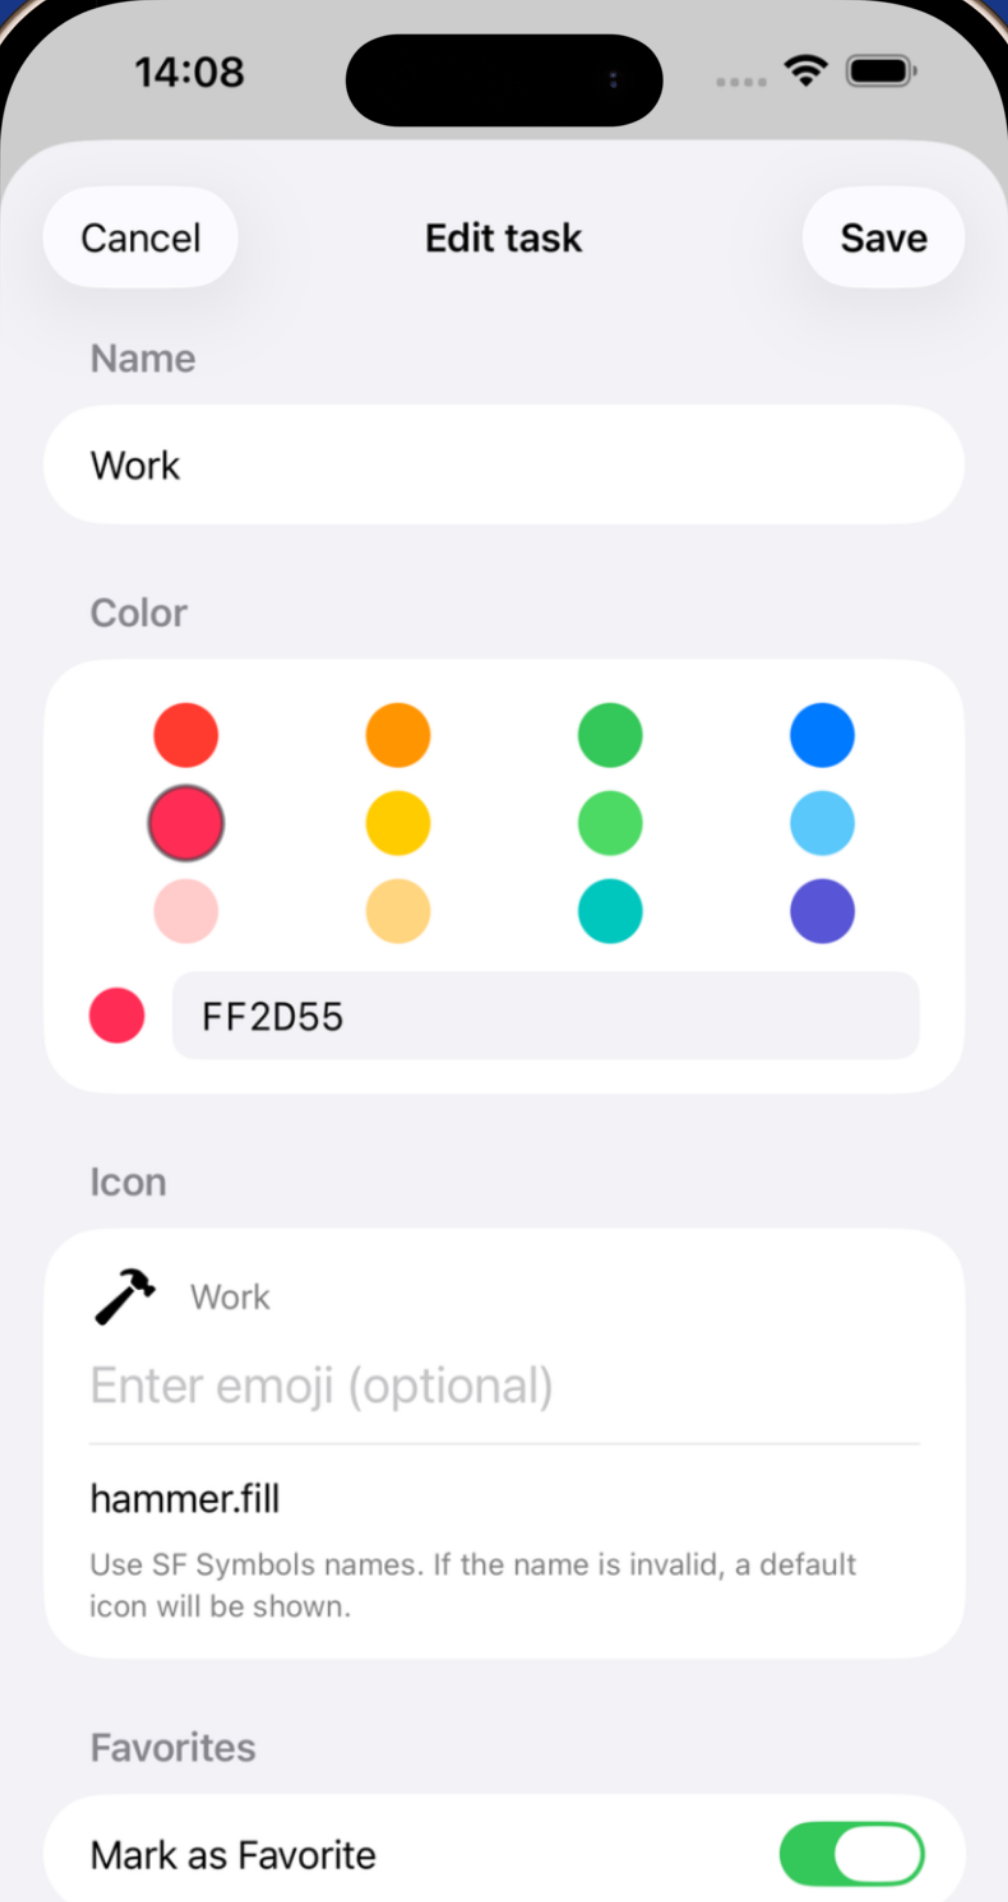
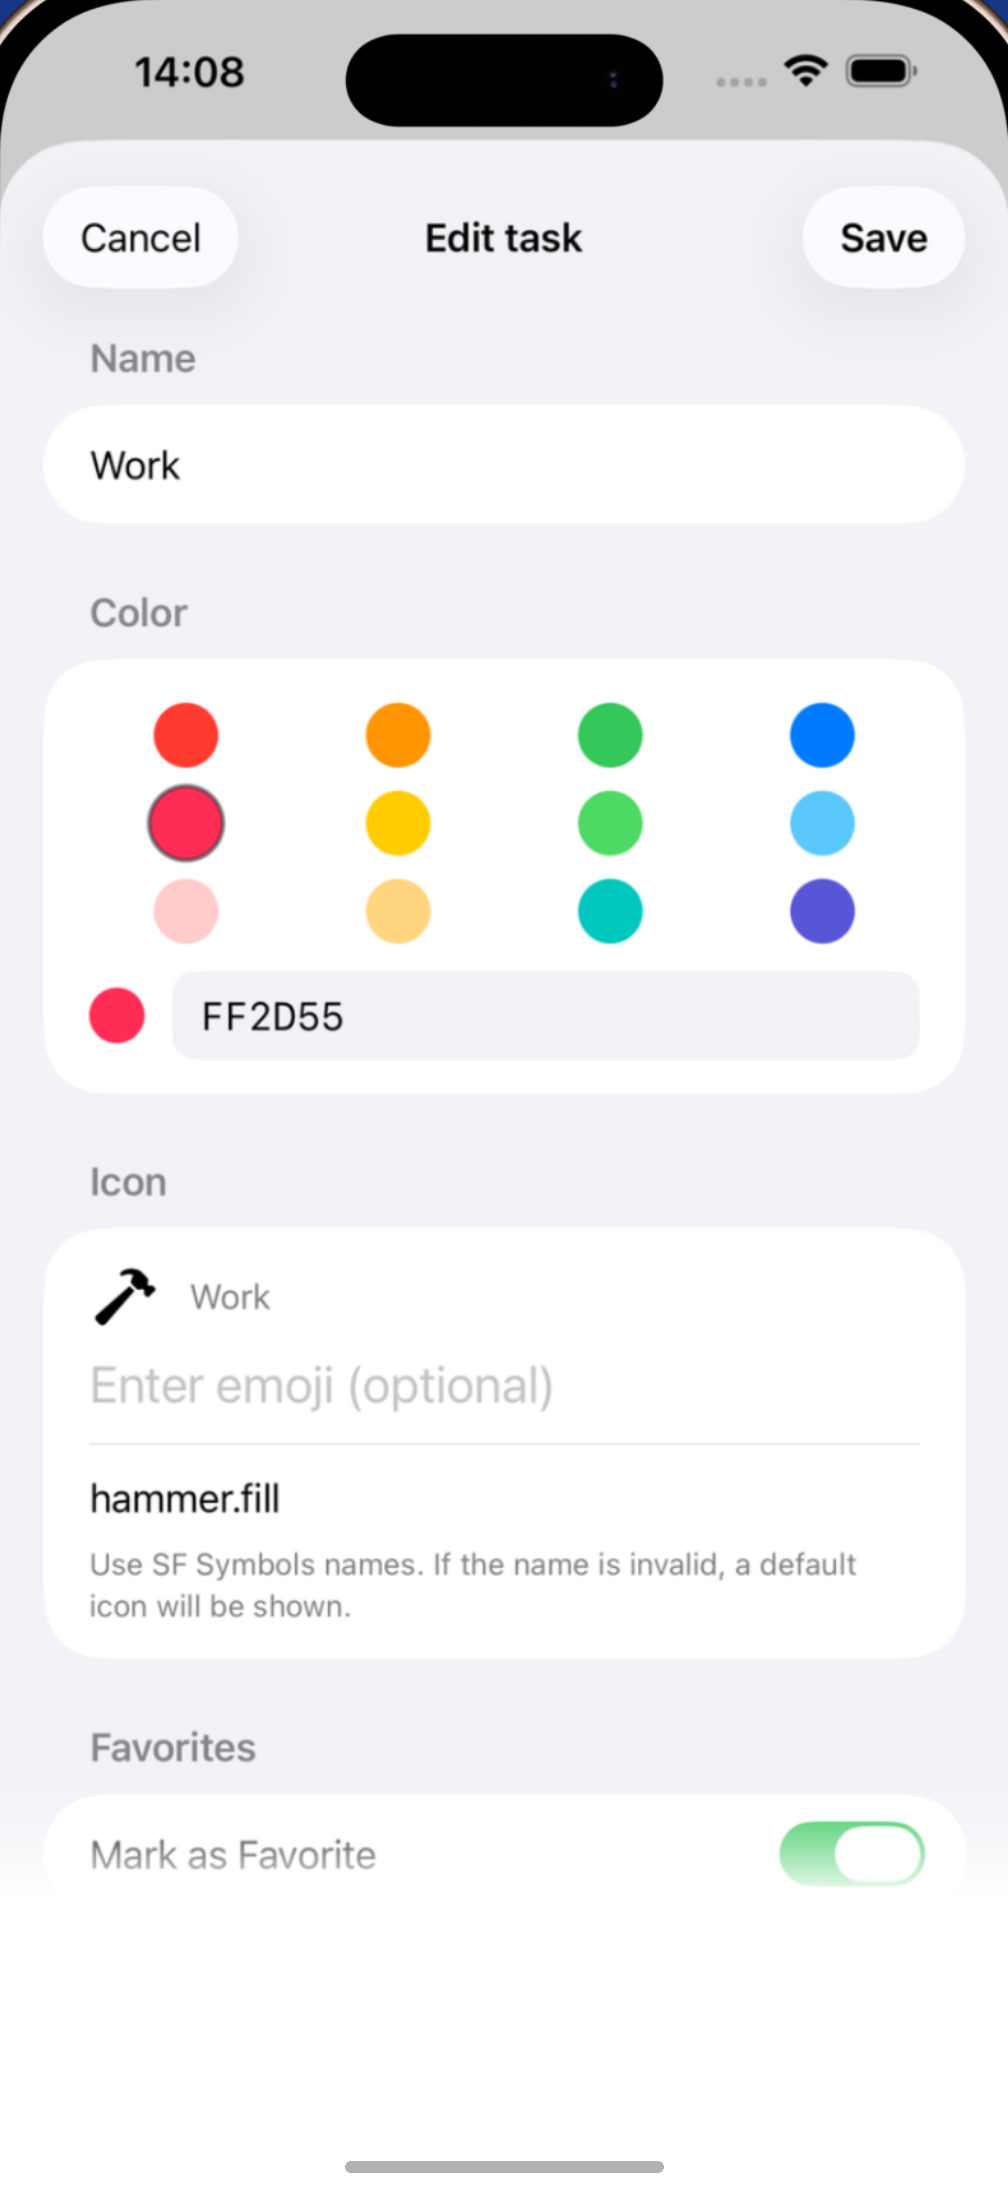
Fix the device frames: round corners and real iPhone proportions
Two defects made the embedded screenshots look off.

Corners were elliptical. `rounded-[13%]` resolves horizontally against
width and vertically against height, so a 320x591 frame got a 42x77px
corner. The radii are now in `cqw` — percent of the frame's own width —
and concentric: outer = screen + bezel, screen at iOS's 12.5%.

Proportions were wrong. The App Store exports cut off the bottom ~13% of
the screen, leaving a 0.53 ratio against a real iPhone's 0.46, which read
as a squat phone. scripts/prepare-screens.py now regenerates the screens
from the marketing sources: it crops the UI, extends the bottom to the
true 1320:2868 ratio by fading the last rows into the screen's own
background colour, and redraws the home indicator the crop removed.

Having this as a script also means replacing the App Store screenshots no
longer needs the crop rectangle rediscovered by hand.

diff --git a/scripts/prepare-screens.py b/scripts/prepare-screens.py
@@ -1,0 +1,113 @@
+#!/usr/bin/env python3
+"""Turn the App Store marketing images into clean device screens.
+
+The marketing exports in src/assets/appstore are 1320x2868 canvases that
+contain a blue background, a baked-in headline and a device mockup whose
+bottom runs off the canvas. This script:
+
+  1. crops the app UI out of the device mockup,
+  2. extends it to the true iPhone screen ratio (1320:2868), fading the
+     last rows of content into the screen's own background colour so the
+     list reads as continuing below the fold,
+  3. draws the home indicator that the crop cut away.
+
+Run after replacing the App Store screenshots:
+
+    python3 scripts/prepare-screens.py
+"""
+
+from collections import Counter
+from pathlib import Path
+
+from PIL import Image, ImageDraw
+
+ROOT = Path(__file__).resolve().parent.parent
+SRC = ROOT / "src/assets/appstore"
+OUT = ROOT / "src/assets/screens"
+
+# Screen ratio of the App Store canvas these exports were rendered at.
+SCREEN_RATIO = 1320 / 2868
+
+# Where the app UI sits inside each single-device mockup. All five share
+# the same layout, so one rectangle covers them.
+SINGLE_CROP = (155, 966, 1163, 2868)
+
+SOURCES = [
+    ("1.png", "track", SINGLE_CROP),
+    ("2.png", "customize", SINGLE_CROP),
+    ("3.png", "overview", SINGLE_CROP),
+    ("4.png", "timeline", SINGLE_CROP),
+    ("5.png", "analyze", SINGLE_CROP),
+    # 6.png stacks two devices; this is the front one.
+    ("6.png", "reports", (540, 1538, 1241, 2868)),
+]
+
+# Home indicator geometry, in fractions of screen width (iPhone: 139x5pt
+# on a 440pt-wide screen, sitting 8pt above the bottom edge).
+INDICATOR_W = 139 / 440
+INDICATOR_H = 5 / 440
+INDICATOR_BOTTOM = 8 / 440
+
+
+def background_colour(img: Image.Image) -> tuple[int, int, int]:
+    """The most common colour in the lower third — the page background."""
+    w, h = img.size
+    lower = img.crop((0, int(h * 0.66), w, h))
+    pixels = list(lower.resize((w // 6, (h - int(h * 0.66)) // 6)).get_flattened_data())
+    return Counter(pixels).most_common(1)[0][0]
+
+
+def extend(img: Image.Image) -> Image.Image:
+    """Pad the bottom to the true screen ratio, fading content into the
+    background so the cut never reads as a broken image."""
+    w, h = img.size
+    target_h = round(w / SCREEN_RATIO)
+    if target_h <= h:
+        return img
+
+    bg = background_colour(img)
+    canvas = Image.new("RGB", (w, target_h), bg)
+    canvas.paste(img, (0, 0))
+
+    # Fade the final rows of real content into the background colour.
+    fade_h = round(w * 0.13)
+    overlay = Image.new("RGB", (w, fade_h), bg)
+    alpha = Image.new("L", (w, fade_h))
+    draw = ImageDraw.Draw(alpha)
+    for y in range(fade_h):
+        draw.line([(0, y), (w, y)], fill=round(255 * (y / (fade_h - 1)) ** 1.4))
+    canvas.paste(overlay, (0, h - fade_h), alpha)
+
+    return canvas
+
+
+def draw_indicator(img: Image.Image) -> None:
+    w, h = img.size
+    bar_w = round(w * INDICATOR_W)
+    bar_h = max(2, round(w * INDICATOR_H))
+    x0 = (w - bar_w) // 2
+    y0 = h - round(w * INDICATOR_BOTTOM) - bar_h
+
+    # Dark bar at ~30% on light backgrounds, matching iOS.
+    bar = Image.new("RGB", (w, h), (0, 0, 0))
+    mask = Image.new("L", (w, h), 0)
+    ImageDraw.Draw(mask).rounded_rectangle(
+        [x0, y0, x0 + bar_w, y0 + bar_h], radius=bar_h / 2, fill=77
+    )
+    img.paste(bar, (0, 0), mask)
+
+
+def main() -> None:
+    OUT.mkdir(parents=True, exist_ok=True)
+    for filename, name, box in SOURCES:
+        src = Image.open(SRC / filename).convert("RGB")
+        screen = extend(src.crop(box))
+        draw_indicator(screen)
+        target = OUT / f"{name}.png"
+        screen.save(target, optimize=True)
+        w, h = screen.size
+        print(f"{target.name:16} {w}x{h}  ratio={w / h:.4f}")
+
+
+if __name__ == "__main__":
+    main()
